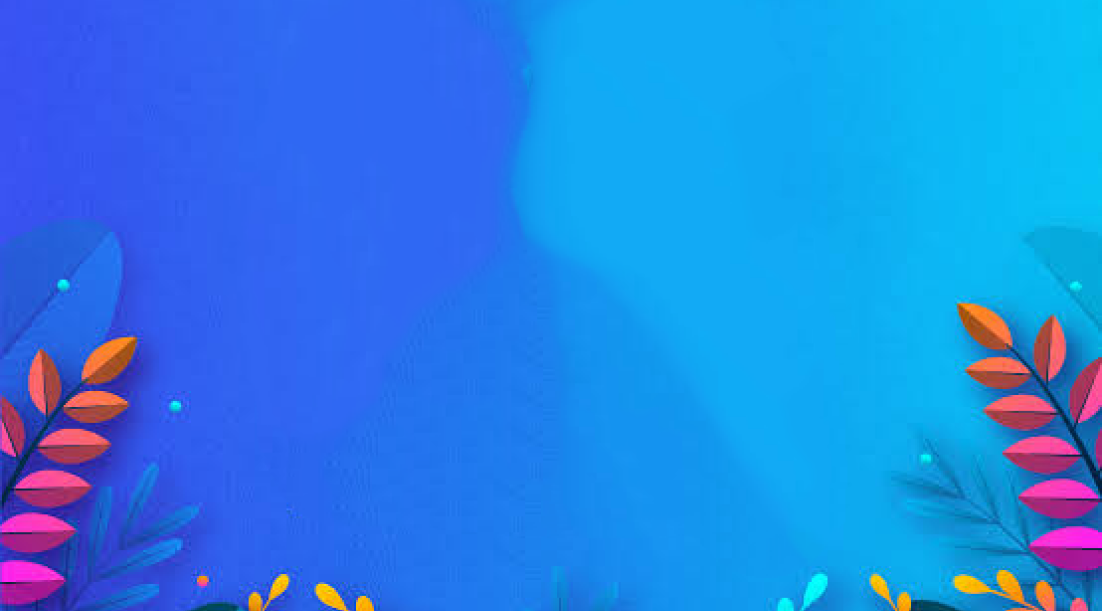
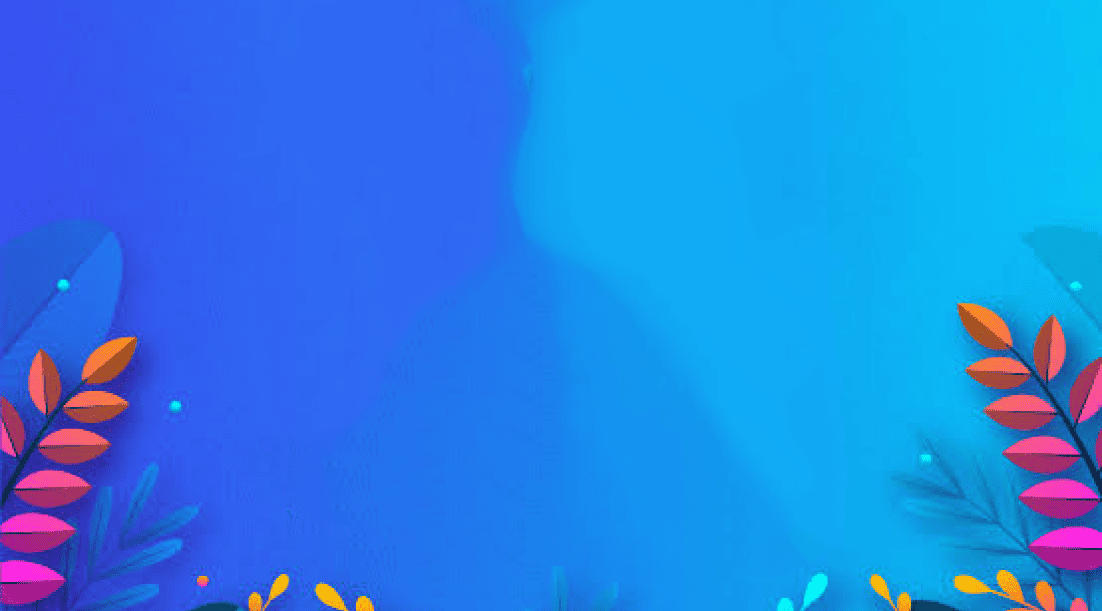
Updated images

diff --git a/index.html b/index.html
@@ -202,7 +202,7 @@
         <div class="w-full mx-auto md:w-1/2 flex justify-center">
           <img
             class="w-full"
-            src="./src/images/haggai_bunch.png"
+            src="./src/images/haggai_bunch.webp"
             alt="screen shot from haggai app" />
         </div>
       </div>
@@ -253,7 +253,7 @@
         <div
           class="w-full sm:w-8/12 mx-auto md:ml-0 md:w-1/2 flex text-center justify-center md:items-start">
           <img
-            src="./src/images/what-it-does-phone.png"
+            src="./src/images/what-it-does-phone.webp"
             class="w-full"
             alt="feature picture" />
         </div>
@@ -377,7 +377,7 @@
         <div
           class="w-full sm:w-8/12 mx-auto md:ml-0 md:w-1/2 flex text-center justify-center md:items-end">
           <img
-            src="./src/images/why-phone-screen.png"
+            src="./src/images/why-phone-screen.webp"
             class="w-full"
             alt="feature picture" />
         </div>
@@ -440,11 +440,11 @@
           class="flex flex-col-reverse md:flex-row justify-between border-2 border-[#0B325C] overflow-hidden w-full bg-beloved-mobile-image md:bg-beloved-image bg-left md:bg-center bg-cover bg-no-repeat rounded-[20px]">
           <div class="w-full md:w-1/2 md:mx-8">
             <img
-              src="./src/images/group-beloved.png"
+              src="./src/images/group-beloved.webp"
               class="h-full hidden md:block"
               alt="" />
             <img
-              src="./src/images/mobile-group-beloved.png"
+              src="./src/images/mobile-group-beloved.webp"
               alt=""
               class="w-full md:hidden" />
           </div>
@@ -518,11 +518,11 @@
         </div>
         <div class="w-full">
           <img
-            src="./src/images/Group-593.png"
+            src="./src/images/Group-593.webp"
             alt="background Image"
             class="hidden md:block" />
           <img
-            src="./src/images/Group-593-mobile.png"
+            src="./src/images/Group-593-mobile.webp"
             alt="background Image"
             class="w-full md:hidden" />
         </div>

diff --git a/faq/index.html b/faq/index.html
@@ -370,11 +370,11 @@
           class="flex flex-col-reverse md:flex-row-reverse justify-between border-2 border-[#0B325C] overflow-hidden w-full bg-beloved-mobile-image md:bg-beloved-image bg-left md:bg-center bg-cover bg-no-repeat rounded-[20px]">
           <div class="w-full md:w-1/2 md:mx-8">
             <img
-              src="../src/images/faq-images/Group 1000001758.png"
+              src="../src/images/faq-images/Group 1000001758.webp"
               class="h-full hidden md:block"
               alt="" />
             <img
-              src="../src/images/mobile-group-beloved.png"
+              src="../src/images/mobile-group-beloved.webp"
               alt=""
               class="w-full md:hidden" />
           </div>

diff --git a/about/index.html b/about/index.html
@@ -164,7 +164,7 @@
         <div
           class="w-full sm:w-8/12 mx-auto md:ml-0 md:w-1/2 flex text-center justify-center md:items-end">
           <img
-            src="../src/images/why-phone-screen.png"
+            src="../src/images/why-phone-screen.webp"
             class="w-full"
             alt="feature picture" />
         </div>
@@ -218,7 +218,7 @@
         <div
           class="w-full sm:w-8/12 mx-auto md:ml-0 md:w-1/2 flex text-center justify-center md:items-start">
           <img
-            src="../src/images/what-it-does-phone.png"
+            src="../src/images/what-it-does-phone.webp"
             class="w-full"
             alt="feature picture" />
         </div>

diff --git a/features/index.html b/features/index.html
@@ -176,7 +176,7 @@
             x-data="{selected:1}"
             class="flex justify-between md:gap-4 xl:gap-6 2xl:gap-8">
             <div
-              class="h-fit w-[380px] 2xl:w-[400px] rounded-[20px] border border-[#0B325C] p-6 md:p-8 bg-white mt-4 md:mt-8 font-Poppins hidden md:block">
+              class="h-fit w-[380px] 2xl:w-[400px] rounded-[20px] border border-[#0B325C] p-6 md:py-8 md:px-6 bg-white mt-4 md:mt-8 font-Poppins hidden md:block">
               <ul class="shadow-box space-y-4 md:space-y-6 2xl:space-y-8">
                 <li
                   class="relative mx-auto rounded-[15px] shadow-faq border-2 border-transparent"

diff --git a/contact/index.html b/contact/index.html
@@ -220,11 +220,11 @@
         </div>
         <div class="w-full">
           <img
-            src="../src/images/Group-593.png"
+            src="../src/images/Group-593.webp"
             alt="background Image"
             class="hidden md:block" />
           <img
-            src="../src/images/Group-593-mobile.png"
+            src="../src/images/Group-593-mobile.webp"
             alt="background Image"
             class="w-full md:hidden" />
         </div>
